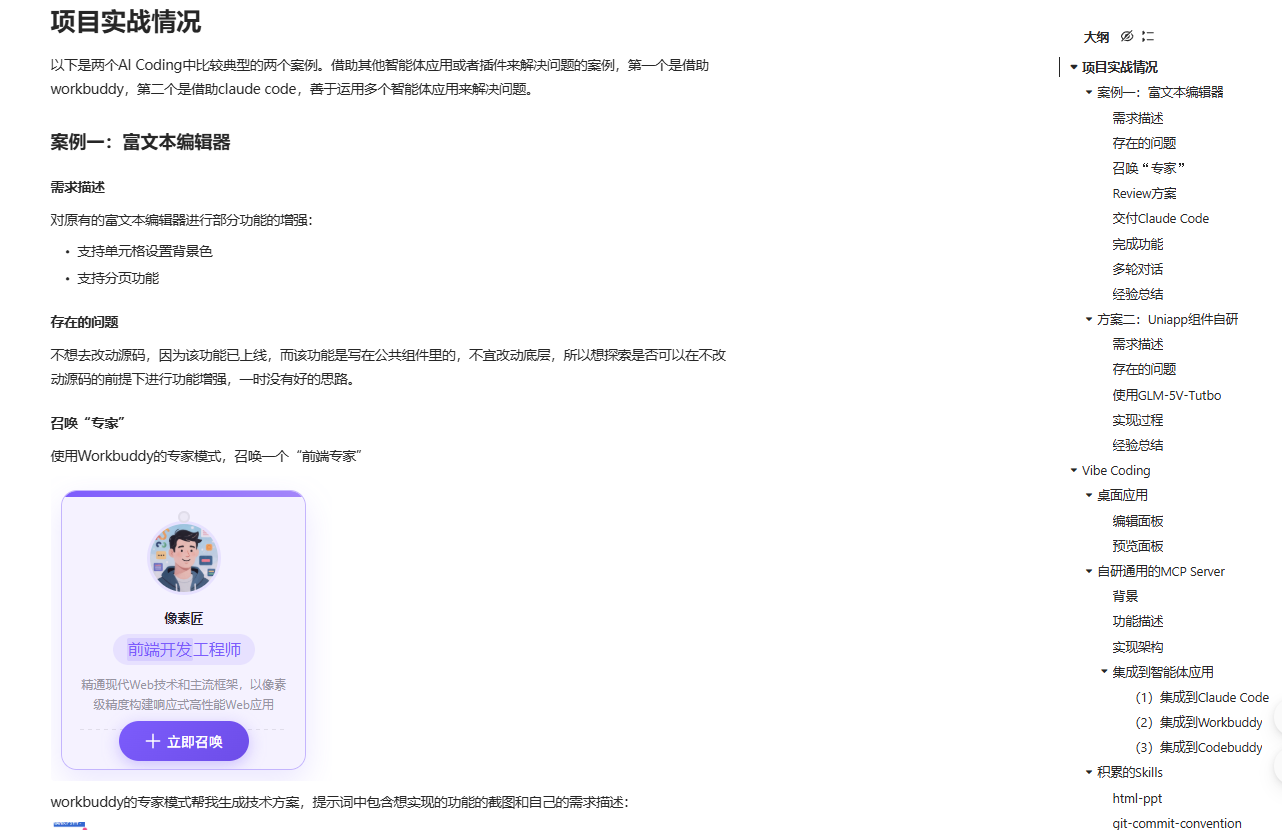
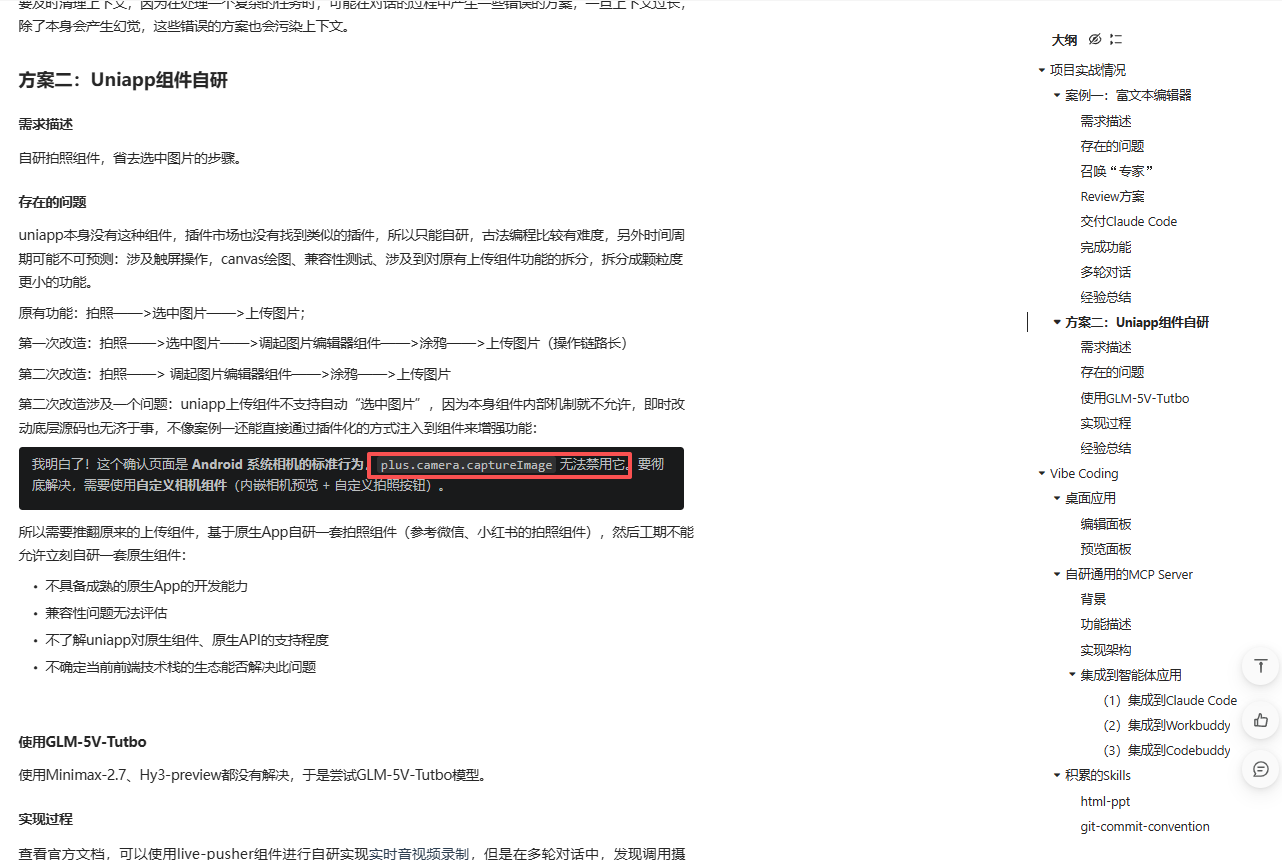
feat: 更新案例内容和完善经验总结

Changed region(s): [[0.0, 0.0, 0.5616, 1.0], [0.8112, 0.0301, 0.9984, 1.0]]

diff --git a/index.html b/index.html
@@ -1081,8 +1081,8 @@
           <p>使用Workbuddy的专家模式，召唤一个"前端专家"</p>
         </div>
         <div class="screenshot-container">
-          <img src="images/1776234753789.png" alt="召唤专家2" class="screenshot" onclick="openLightbox(this)">
           <img src="images/1776234786300.png" alt="召唤专家3" class="screenshot" onclick="openLightbox(this)">
+          <img src="images/1776234753789.png" alt="召唤专家2" class="screenshot" onclick="openLightbox(this)">
         </div>
         <div class="highlight-box">
           <p>提示词中包含想实现的功能的截图和自己的需求描述</p>
@@ -1163,7 +1163,7 @@
       <div class="slide-content">
         <h2>案例一经验总结</h2>
         <div class="highlight-box green">
-          <p>要及时清理上下文，因为在处理一个复杂的任务时，可能在对话的过程中产生一些错误的方案，一旦上下文过长，除了本身会产生幻觉，这些错误的方案也会污染上下文。</p>
+          <p>要及时清理上下文，因为在处理一个复杂的任务时，可能在对话的过程中产生一些错误的方案，一旦上下文过长，除了本身会产生幻觉，这些错误的方案也会污染上下文，从而导致AI失忆。</p>
         </div>
       </div>
     </section>
@@ -1200,19 +1200,20 @@
         <div class="two-col">
           <div>
             <p>需要推翻原来的上传组件，基于原生App自研一套拍照组件（参考微信、小红书的拍照组件）</p>
-            <h3>工期不允许立刻自研的原因：</h3>
+            <h3>不具备立刻自研的条件（需要踩坑）：</h3>
             <ul>
               <li>不具备成熟的原生App开发能力</li>
               <li>兼容性问题无法评估</li>
               <li>不了解uniapp对原生组件、原生API的支持程度</li>
-              <li>不确定前端技术栈能否解决此问题</li>
+              <li>不确定当前项目的技术栈能否解决此问题</li>
             </ul>
           </div>
           <div >
             <div class="card" style="margin-top: 3rem;">
-              <h3>尝试过程</h3>
-              <p>使用Minimax-2.7、Hy3-preview都没有解决</p>
-              <p style="margin-top: 0.8rem;">最后尝试<strong>GLM-5V-Turbo</strong>模型</p>
+              <h3>尝试切换不同模型来解决</h3>
+              <p style="margin-top: 0.8rem;">❌ Minimax-2.7</p>
+              <p style="margin-top: 0.8rem;">❌ Hy3-preview</p>
+              <p style="margin-top: 0.8rem;">✅ GLM-5V-Turbo</p>
             </div>
           </div>
         </div>
@@ -1224,7 +1225,7 @@
       <div class="grid-bg"></div>
       <div class="slide-content">
         <h2>实现过程</h2>
-        <p>查看官方文档，可以使用live-pusher组件进行<strong>实时音视频录制</strong></p>
+        <p>人工+AI：查看官方文档，了解到可以使用live-pusher组件进行<strong>实时音视频录制（直播推流）</strong></p>
         <div class="two-col">
           <div>
             <h3>遇到的问题</h3>
@@ -1294,6 +1295,13 @@
               <li>希望使用JavaScript来开发MCP Server</li>
               <li>MCP Server可能包含更多的层级目录和文件</li>
             </ul>
+            <h3>技术栈</h3>
+            <ul>
+              <li>nodejs+playwright</li>
+              <li>Mcp Server</li>
+              <li>Skill</li>
+              <li>Auto Memory + Hook</li>
+            </ul>
           </div>
           <div>
             <div class="card">
@@ -1317,9 +1325,23 @@
         <div class="highlight-box">
           <p><strong>功能描述：</strong>在智能体应用中只需输入url，即可解析url中所有内容，并按照skill中设定的规格进行内容的格式化输出，方便快速学习各个技术平台的博客内容。</p>
         </div>
-        <div class="card" style="margin-top: 1.5rem;">
-          <h3>实现架构</h3>
+        <div class="card" style="margin-top: 0.5rem;">
+          <h3>工作流</h3>
           <img src="images/image2026-4-23_18-55-19.png" alt="实现架构1" class="screenshot" onclick="openLightbox(this)">
+        </div>
+        <div class="three-col" >
+          <div class="card">
+            <h3>稀土掘金</h3>
+            <img src="images/juejin.png"  class="screenshot" onclick="openLightbox(this)">
+          </div>
+          <div class="card">
+            <h3>CSDN</h3>
+            <img src="images/csdn.png"  class="screenshot" onclick="openLightbox(this)">
+          </div>
+          <div class="card">
+            <h3>语雀</h3>
+            <img src="images/yuque.png"  class="screenshot" onclick="openLightbox(this)">
+          </div>
         </div>
       </div>
     </section>
@@ -1405,13 +1427,11 @@
           <p>给同名的MCP Server做规格约束</p>
           <div class="two-col" style="margin-top: 1rem;">
             <div>
-              <h3>使用skill前</h3>
-              <p>格式不统一</p>
+              <h3>使用skill前（格式不统一）</h3>
               <img src="images/1776908372527.png" alt="使用前" class="screenshot" onclick="openLightbox(this)">
             </div>
             <div>
-              <h3>使用skill后</h3>
-              <p>格式统一</p>
+              <h3>使用skill后（格式统一）</h3>
               <img src="images/1776913068463.png" alt="使用后" class="screenshot" onclick="openLightbox(this)">
             </div>
           </div>
@@ -1435,7 +1455,7 @@
           </div>
           <div class="card">
             <h3>更换模型</h3>
-            <p>如果问题解决不了，可以尝试更换模型，更换模型推倒重来可能需要付出额外时间</p>
+            <p>如果问题解决不了，可以尝试更换模型，但更换模型推倒重来可能需要付出额外时间</p>
           </div>
         </div>
       </div>
@@ -1449,14 +1469,14 @@
         <div class="two-col">
           <div>
             <div class="card">
-              <h3>技术分享</h3>
-              <p>已做关于MCP Server的技术分享：《如何设计并落地一个通用的MCP Server》</p>
-              <p>分享MCP Server + Skill + Hook + Auto Memory的使用场景</p>
+              <h3>知识分享</h3>
+              <p style="margin-bottom: 0.5rem;">分享主题：《如何设计并落地一个通用的MCP Server》</p>
+              <p style="margin-bottom: 0.5rem;">技术要点：MCP Server + Skill + Hook + Auto Memory + Playwright</p>
             </div>
             <div class="card">
-              <h3>Vibe Coding仓库</h3>
-              <p>gitlab新建Vibe Coding仓库：沉淀日常工作中的Skills和MCP Server</p>
-              <p>共享团队内部经验</p>
+              <h3>团队共享</h3>
+              <p style="margin-bottom: 0.5rem;">创建仓库：https://git.i-sanger.com/fe/vibe-coding</p>
+              <p style="margin-bottom: 0.5rem;">经验沉淀：日常工作中积累的Skills和MCP Server</p>
             </div>
           </div>
           <div class="card">
@@ -1479,19 +1499,18 @@
     <section class="slide" data-slide="22" data-title="AI Coding开发模式演进">
       <div class="grid-bg"></div>
       <div class="slide-content">
-        <h2>AI Coding开发模式演进</h2>
+        <h2>26年AI Coding开发模式演进</h2>
         <div class="timeline">
           <div class="timeline-item">
-            <h3>2024年5月 - 2026年2月</h3>
-            <p>AI Coding插件（Comate、Copilot）——> AI IDE的尝试（Trae、Codebuddy）</p>
-          </div>
-          <div class="timeline-item">
             <h3>2026年2月 - 2026年3月</h3>
-            <p>Claude Code（安装各种skill、各种MCP Server进行提效）</p>
+            <p>Claude Code：安装好用的Skills、MCP Server来提效</p>
           </div>
           <div class="timeline-item">
             <h3>2026年4月至今</h3>
-            <p>Claude Code + Workbuddy（自带成熟skill、兼容Claude Code的Skills、MCP Server、专家模式）+ Codebuddy + Copilot + 自研Skill + 自研MCP Server</p>
+            <p>多智能体应用混用：自研一些Skills、MCP Server来提效</p>
+            <p>主：Claude Code</p>
+            <p>副1：Workbuddy：专家模式</p>
+            <p>副2：Codebuddy：多模型</p>
           </div>
         </div>
       </div>
@@ -1513,11 +1532,8 @@
           </div>
           <div class="overview-card">
             <h3>持续演进</h3>
-            <p>结合工作经验，不完全依赖AI</p>
+            <p>结合工作经验，多智能体应用、多模型协同</p>
           </div>
-        </div>
-        <div class="highlight-box green" style="margin-top: 3rem;">
-          <p><strong>核心观点：</strong>善于运用多个智能体应用来解决问题</p>
         </div>
       </div>
     </section>
@@ -1526,9 +1542,8 @@
     <section class="slide slide-cover" data-slide="24" data-title="Q & A">
       <div class="grid-bg"></div>
       <div class="slide-content">
-        <h1>Q & A</h1>
-        <p class="subtitle">感谢聆听</p>
-        <div class="tech-badge">THANKS</div>
+        <h1>感谢聆听</h1>
+        <div class="tech-badge" style="margin-top: 30px;">THANKS</div>
       </div>
     </section>
 
